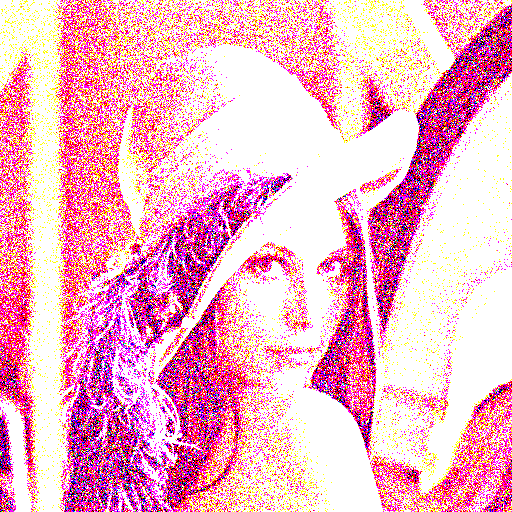
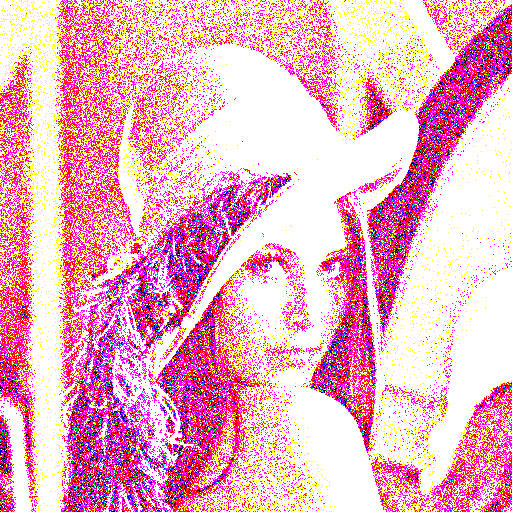
C'mon

diff --git a/lib/gleech.js b/lib/gleech.js
@@ -1,5 +1,5 @@
 (function() {
-  var ArrayToCanvas, Caman, Canvas, andSort, numericSort, orSort, randminmax, randomSort, slice_range, sum, swapEnd32, xorSort,
+  var Caman, Canvas, andSort, arrayToCanvas, numericSort, orSort, randminmax, randomSort, slice_range, sum, swapEnd32, xorSort,
     indexOf = [].indexOf || function(item) { for (var i = 0, l = this.length; i < l; i++) { if (i in this && this[i] === item) return i; } return -1; };
 
   if (typeof require !== "undefined" && require !== null) {
@@ -72,8 +72,8 @@
     return [x, y];
   };
 
-  ArrayToCanvas = function(arr, width, height) {
-    var buff, can, ctx, data, i, imgdata, k, len, middle, pixel, pixelData;
+  arrayToCanvas = function(arr, width, height) {
+    var buff, can, ctx, ctxData, i, imgdata, k, len, middle, pixel, pixelData;
     can = typeof exports !== "undefined" && exports !== null ? new Canvas() : document.createElement('canvas');
     can.width = width;
     can.height = height;
@@ -85,12 +85,10 @@
       pixel = buff[i];
       pixelData[i] = pixel;
     }
+    middle = (width * height) * 4;
     ctx.putImageData(imgdata, 0, 0);
-    middle = (width * height * 4) / 2;
-    console.log("Spot-check");
-    data = ctx.getImageData(0, 0, width, height);
-    console.log("data: ", data.data[middle], data.data[middle + 1], data.data[middle + 2], data.data[middle + 3]);
-    console.log("buff: ", buff[middle], buff[middle + 1], buff[middle + 2], buff[middle + 3]);
+    ctxData = ctx.getImageData(0, 0, width, height);
+    console.log(pixelData.slice(middle, middle + 4), ctxData.slice(middle, middle + 4));
     return can;
   };
 
@@ -124,7 +122,7 @@
         }
       }
     }
-    this.replaceCanvas(ArrayToCanvas(data, width, height));
+    this.replaceCanvas(arrayToCanvas(data, width, height));
     return this;
   });
 
@@ -143,7 +141,7 @@
         data[i] = data[i * 2 % data.length];
       }
     }
-    this.replaceCanvas(ArrayToCanvas(data, width, height));
+    this.replaceCanvas(arrayToCanvas(data, width, height));
     return this;
   });
 
@@ -171,7 +169,7 @@
         }
       }
     }
-    this.replaceCanvas(ArrayToCanvas(data, width, height));
+    this.replaceCanvas(arrayToCanvas(data, width, height));
     return this;
   });
 
@@ -208,7 +206,7 @@
         }
       }
     }
-    this.replaceCanvas(ArrayToCanvas(data, width, height));
+    this.replaceCanvas(arrayToCanvas(data, width, height));
     return this;
   });
 
@@ -225,7 +223,7 @@
     cutstart = Math.floor(cutend / 1.7);
     cut = data.subarray(cutstart, cutend);
     data.set(cut, Math.floor(Math.random() * cutstart));
-    this.replaceCanvas(ArrayToCanvas(data, width, height));
+    this.replaceCanvas(arrayToCanvas(data, width, height));
     return this;
   });
 
@@ -272,7 +270,7 @@
         }
       }
     }
-    this.replaceCanvas(ArrayToCanvas(data, width, height));
+    this.replaceCanvas(arrayToCanvas(data, width, height));
     return this;
   });
 
@@ -307,7 +305,7 @@
     } else {
       Array.prototype.sort.call(da, this[algo]);
     }
-    this.replaceCanvas(ArrayToCanvas(data, width, height));
+    this.replaceCanvas(arrayToCanvas(data, width, height));
     return this;
   });
 
@@ -343,7 +341,7 @@
       Array.prototype.sort.call(da, this[algo]);
     }
     data.set(da, mm[0]);
-    this.replaceCanvas(ArrayToCanvas(data, width, height));
+    this.replaceCanvas(arrayToCanvas(data, width, height));
     return this;
   });
 
@@ -366,7 +364,7 @@
     } else {
       Array.prototype.sort.call(da, this[algo]);
     }
-    this.replaceCanvas(ArrayToCanvas(data, width, height));
+    this.replaceCanvas(arrayToCanvas(data, width, height));
     return this;
   });
 
@@ -400,7 +398,7 @@
       cut = data.subarray(i, i + width);
       Array.prototype.sort.call(cut, this[algo]);
     }
-    this.replaceCanvas(ArrayToCanvas(data, width, height));
+    this.replaceCanvas(arrayToCanvas(data, width, height));
     return this;
   });
 
@@ -436,7 +434,7 @@
         Array.prototype.sort.call(da, this[algo]);
       }
     }
-    this.replaceCanvas(ArrayToCanvas(data, width, height));
+    this.replaceCanvas(arrayToCanvas(data, width, height));
     return this;
   });
 
@@ -500,25 +498,19 @@
         }
       }
     }
-    this.replaceCanvas(ArrayToCanvas(data, width, height));
+    this.replaceCanvas(arrayToCanvas(data, width, height));
     return this;
-  });
-
-  Caman.Filter.register('invert', function() {
-    return this.processPlugin('invert', []);
   });
 
   Caman.Plugin.register('invert', function() {
-    var data, height, i, k, len, width;
-    width = this.dimensions.width;
-    height = this.dimensions.height;
-    data = new Uint32Array(this.pixelData);
-    for (k = 0, len = data.length; k < len; k++) {
-      i = data[k];
-      data[i] = ~data[i] | 0xFF000000;
-    }
-    this.replaceCanvas(ArrayToCanvas(data, width, height));
-    return this;
+    return this.process('invert', function(rgba) {
+      var factor;
+      factor = 255;
+      rgba.r = rgba.r(~factor);
+      rgba.g = rgba.g(~factor);
+      rgba.b = rgba.b(~factor);
+      return rgba;
+    });
   });
 
   Caman.Filter.register('redShift', function() {
